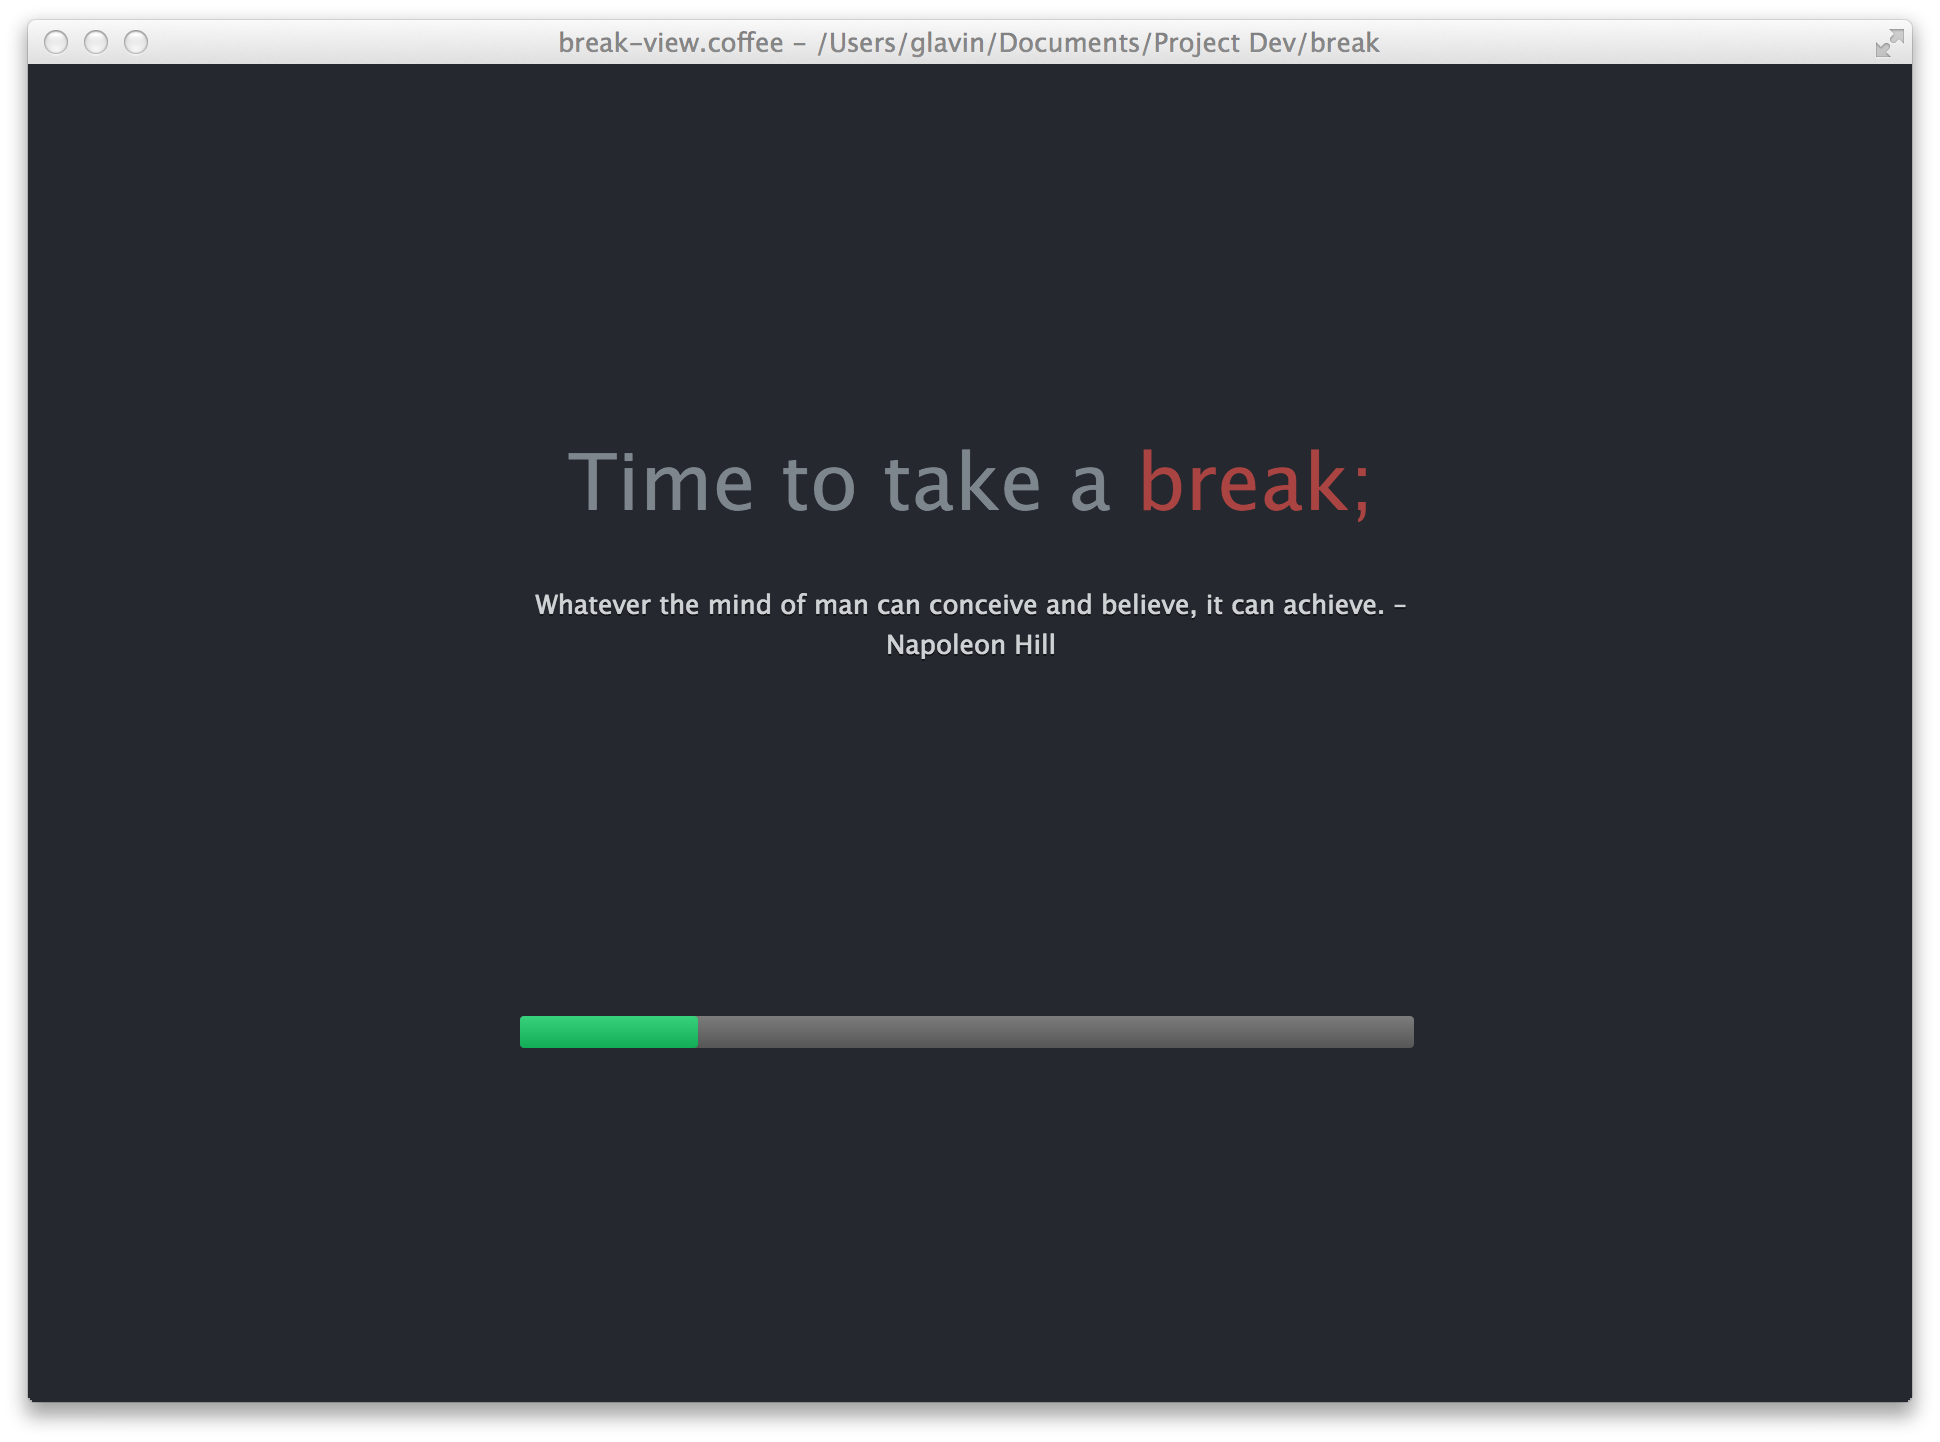
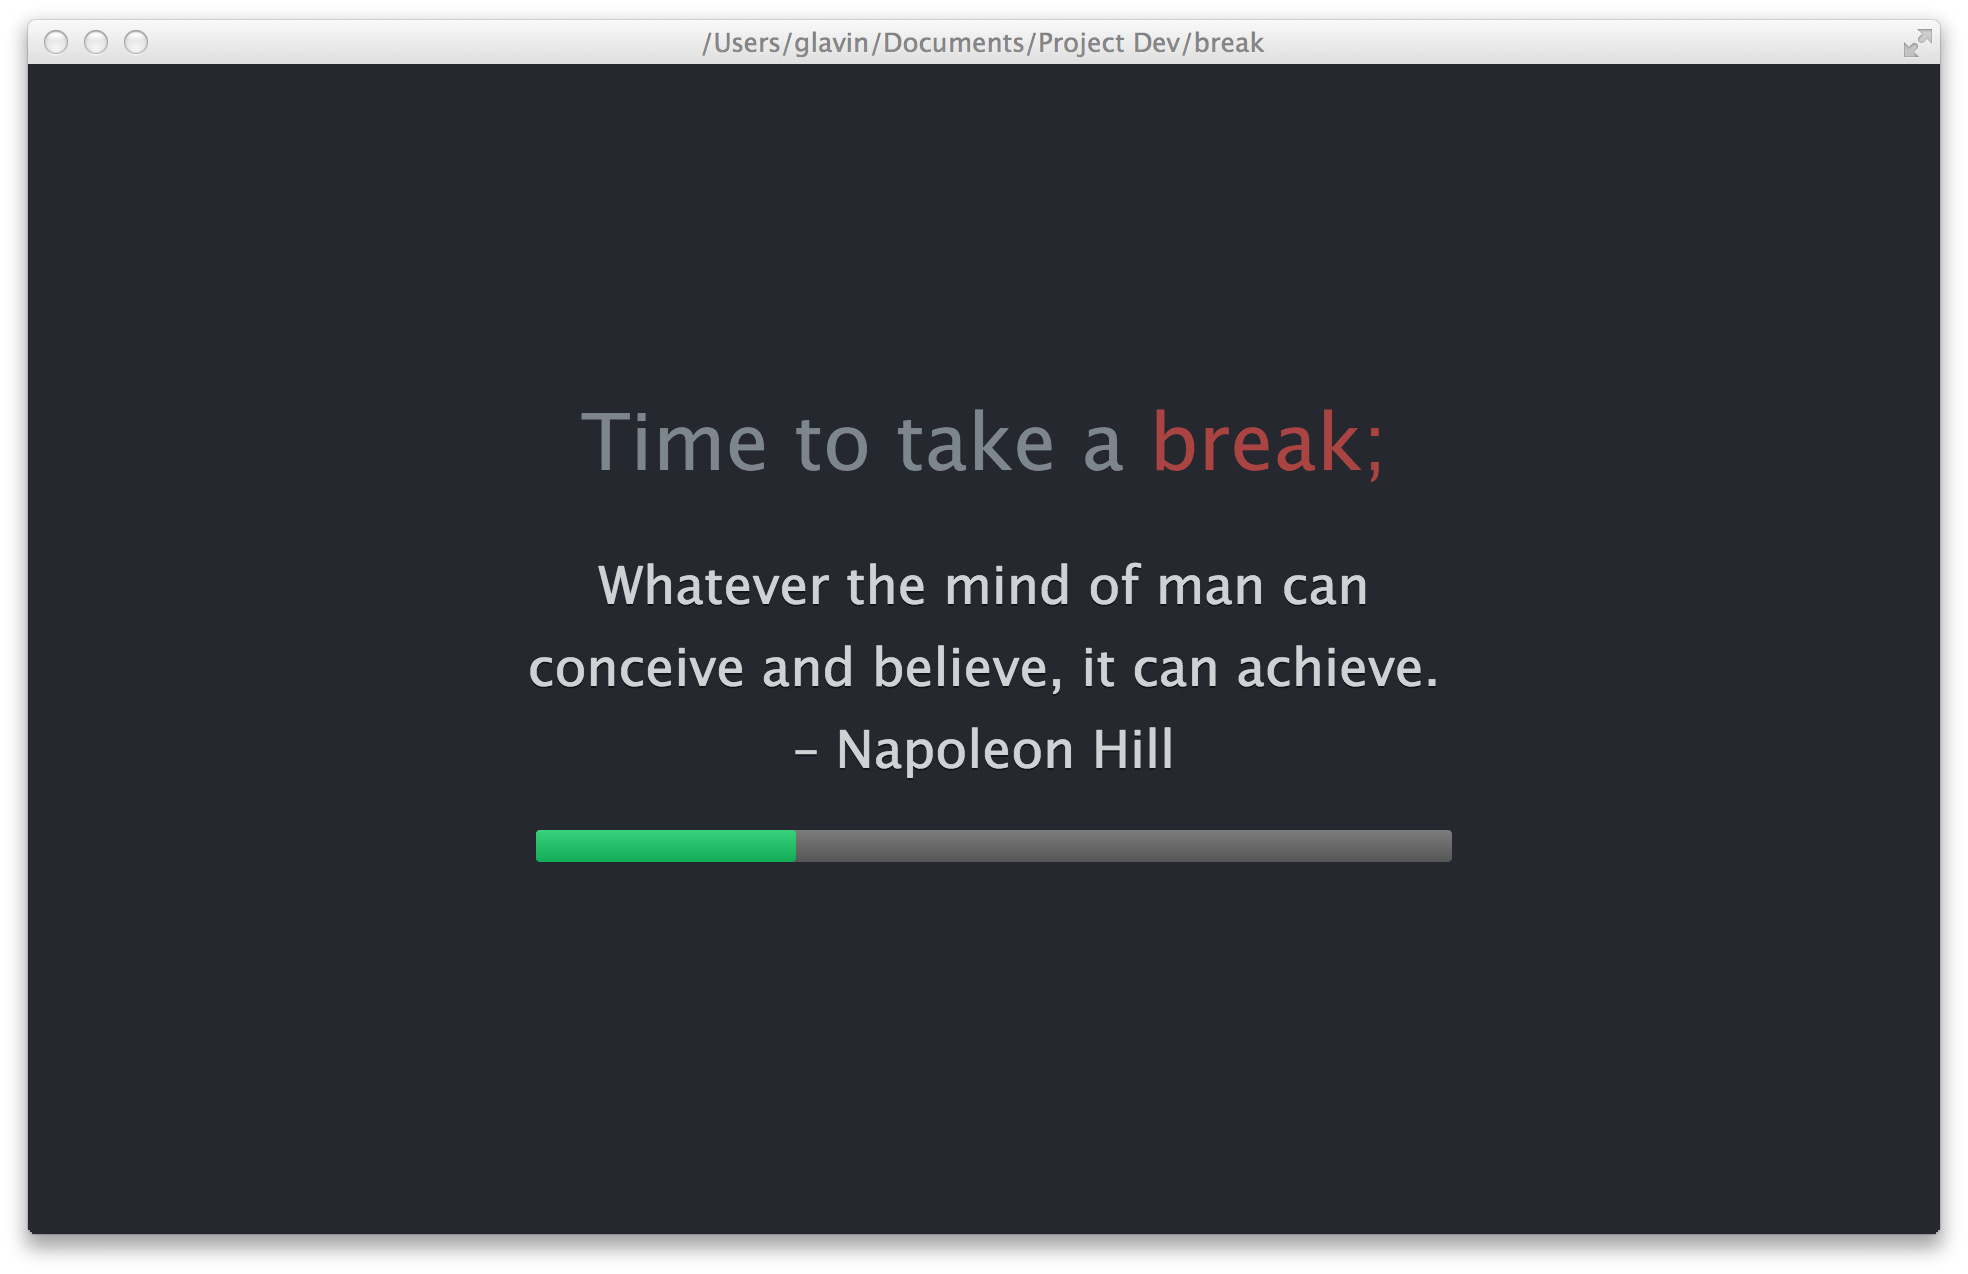
Closes #3. UI Improvements.

diff --git a/stylesheets/break.less b/stylesheets/break.less
@@ -10,14 +10,14 @@
     width: 100%;
 }
 
-.text-center {
-    text-align: center;
-}
+// .text-center {
+//     text-align: center;
+// }
 
 .widen {
-    position: absolute;
-    margin: auto;
-    width: 95%;
+    // position: absolute;
+    margin: 5px;
+    width: 100%;
     bottom: 10px;
 }
 
@@ -31,4 +31,9 @@
     margin: auto;
     position: absolute;
     top: 0; left: 0; bottom: 0; right: 0;
+}
+
+.break-quote {
+  font-size: 2em;
+  font-style: italics;
 }

diff --git a/README.md b/README.md
@@ -5,7 +5,7 @@
 > An [Atom]() package to remind you to get up, move around, and take a break.  
 > Inspired by [Workrave](http://www.workrave.org/), [countless articles](https://www.google.ca/#q=sitting+harmful), and my sore hips.
 
-![A screenshot of your spankin' package](screenshot.png)
+![A screenshot of your spankin' package](https://github.com/Frozenfire92/break/raw/master/screenshot.png)
 
 -----
 
@@ -14,14 +14,14 @@
 Atom Package: https://atom.io/packages/break
 
 ```bash
-apm install gitter
+apm install break
 ```
 
 Or Settings/Preferences ➔ Packages ➔ Search for `break`
 
 ## Features
 
-- [x] Customizable `Break` schedule (see *Package Settings* below)
+- [x] Customizable `Break` schedule (see [Package Settings](https://github.com/Frozenfire92/break#package-settings) below)
 - [x] Full screen break message that prevents you from further coding
 - [ ] [Warns you before a break so that you can save and prepare](https://github.com/Frozenfire92/break/issues/1)
 
